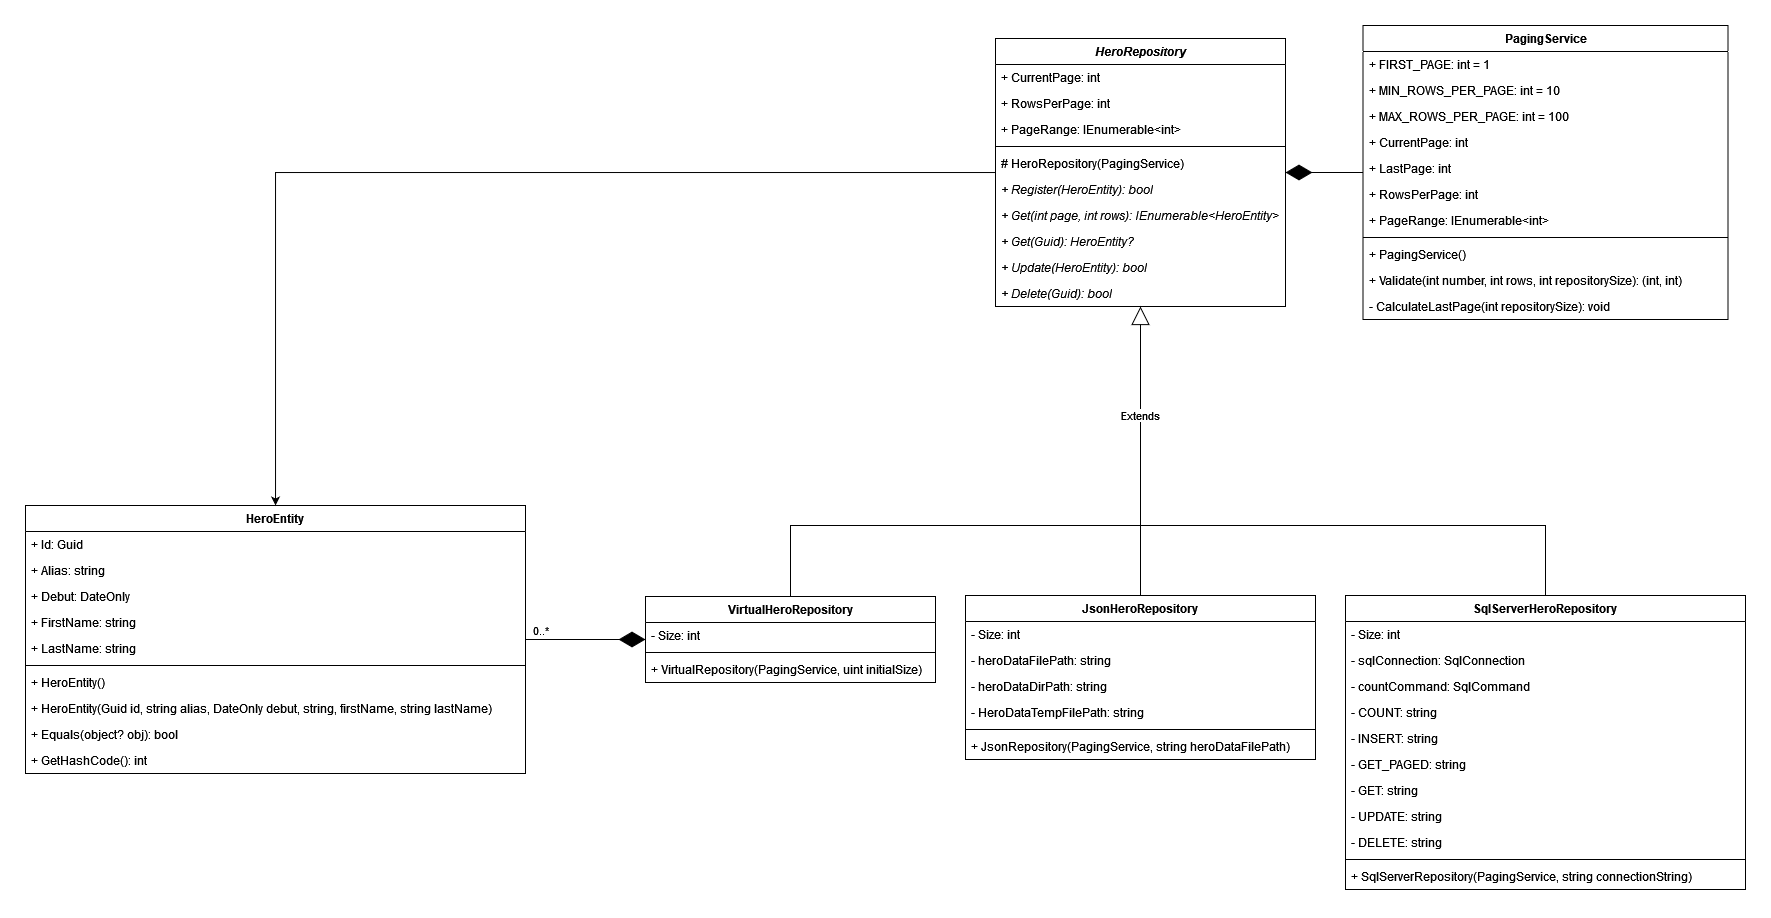
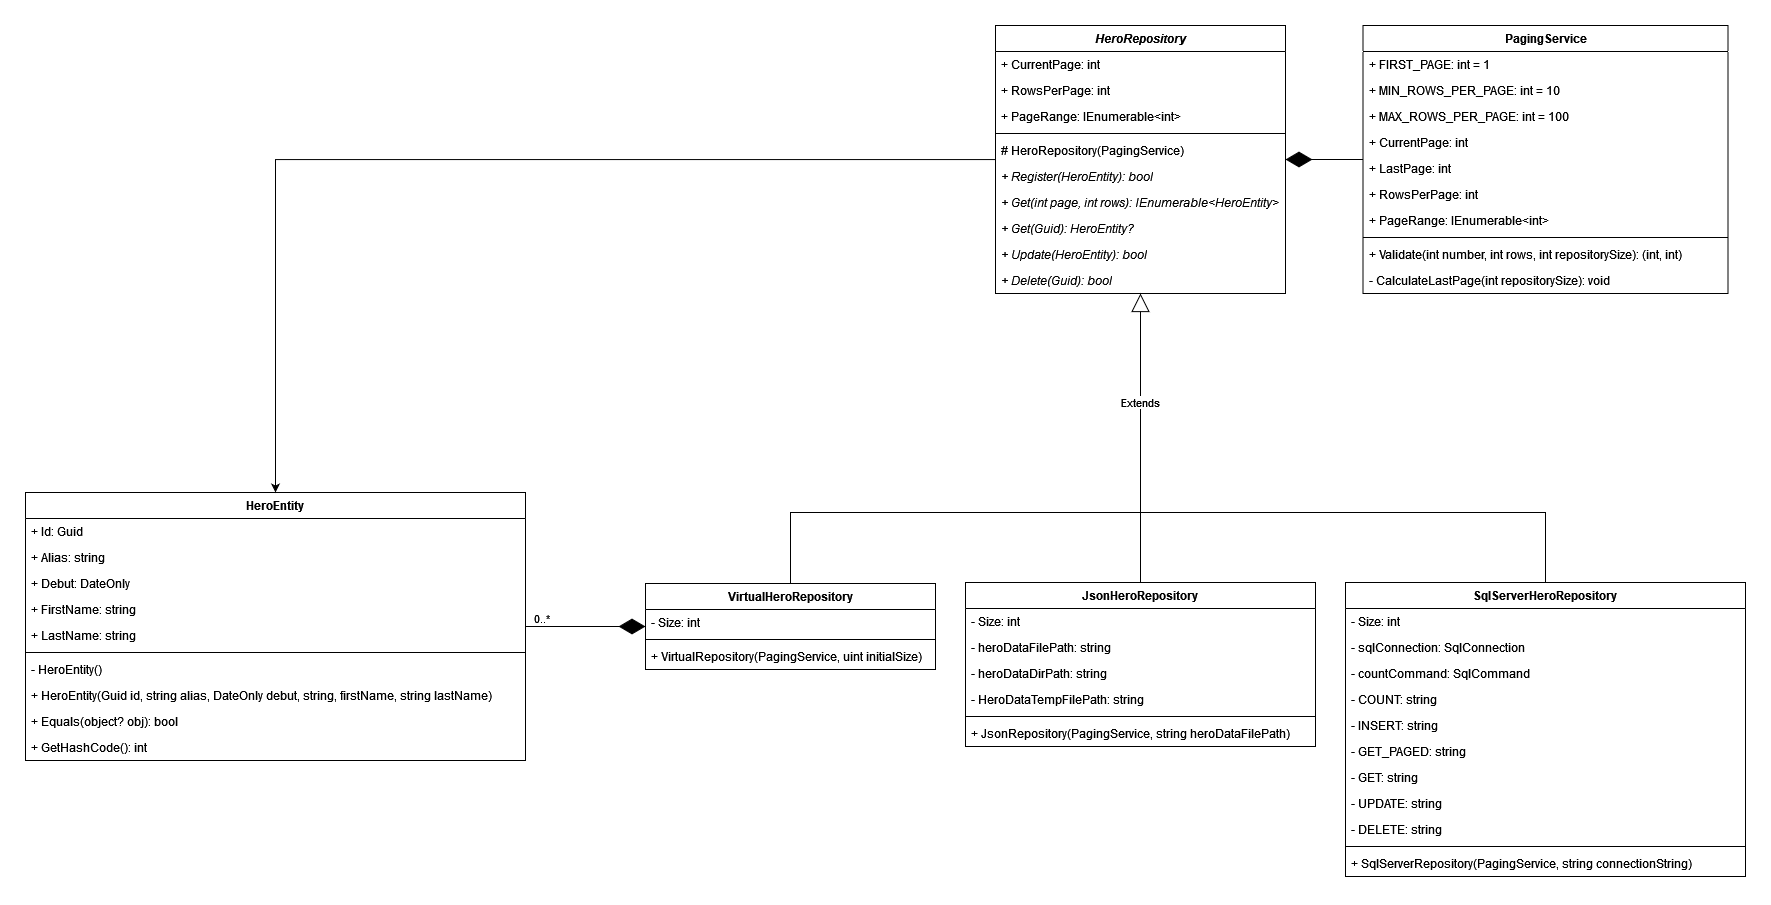
Simplique a atualização de heróis

diff --git a/src/CrudDaJustica.WebApi/Controllers/HeroController.cs b/src/CrudDaJustica.WebApi/Controllers/HeroController.cs
@@ -92,12 +92,11 @@ public class HeroController : ControllerBase
         Guid newHeroId = Guid.NewGuid();
         if (success = ModelState.IsValid)
         {
-            var newHero = new HeroEntity(
-                newHeroId,
-                request.Alias,
-                request.Debut,
-                request.FirstName,
-                request.LastName);
+            var newHero = new HeroEntity(newHeroId,
+                                         request.Alias,
+                                         request.Debut,
+                                         request.FirstName,
+                                         request.LastName);
 
             success = heroRepository.Register(newHero);
         }
@@ -136,13 +135,12 @@ public class HeroController : ControllerBase
             return BadRequest();
         }
 
-        var updatedInformation = new HeroEntity(
-            id,
-            request.Alias,
-            request.Debut,
-            request.FirstName,
-            request.LastName);
-        var success = heroRepository.Update(id, updatedInformation);
+        var updatedInformation = new HeroEntity(id,
+                                                request.Alias,
+                                                request.Debut,
+                                                request.FirstName,
+                                                request.LastName);
+        var success = heroRepository.Update(updatedInformation);
 
         if (success)
         {

diff --git a/src/CrudDaJustica.Data.Lib/Repositories/VirtualHeroRepository.cs b/src/CrudDaJustica.Data.Lib/Repositories/VirtualHeroRepository.cs
@@ -62,22 +62,19 @@ public class VirtualHeroRepository : HeroRepository
         return null;
     }
 
-    public override bool Update(Guid id, HeroEntity updatedHero)
+    public override bool Update(HeroEntity updatedHero)
     {
         var index = 0;
 
         foreach (var hero in heroes[..])
         {
-            if (hero.Id == id)
+            if (hero.Id == updatedHero.Id)
             {
-                heroes[index] = new HeroEntity()
-                {
-                    Id = id,
-                    Alias = updatedHero.Alias,
-                    Debut = updatedHero.Debut,
-                    FirstName = updatedHero.FirstName,
-                    LastName = updatedHero.LastName,
-                };
+                heroes[index] = new HeroEntity(updatedHero.Id,
+                                               updatedHero.Alias,
+                                               updatedHero.Debut,
+                                               updatedHero.FirstName,
+                                               updatedHero.LastName);
                 return true;
             }
             index++;

diff --git a/src/CrudDaJustica.Data.Lib/Models/HeroEntity.cs b/src/CrudDaJustica.Data.Lib/Models/HeroEntity.cs
@@ -14,7 +14,7 @@ public class HeroEntity
     /// <summary>
     /// The name of a hero's secret identity.
     /// </summary>
-    public string Alias { get; set; } = null!;
+    public string Alias { get; set; }
 
     /// <summary>
     /// The date when a hero was first seen.
@@ -24,17 +24,14 @@ public class HeroEntity
     /// <summary>
     /// The first name of the person behind the secret identity.
     /// </summary>
-    public string FirstName { get; set; } = null!;
+    public string FirstName { get; set; }
 
     /// <summary>
     /// The last name of the person behind the secret identity.
     /// </summary>
-    public string LastName { get; set; } = null!;
+    public string LastName { get; set; }
 
-    /// <summary>
-    /// Initializes a new instance of the <see cref="HeroEntity"/> class.
-    /// </summary>
-    public HeroEntity() { }
+    private HeroEntity() { }
 
     /// <summary>
     /// Initializes a new instance of the <see cref="HeroEntity"/> class.

diff --git a/src/CrudDaJustica.Data.Lib/Repositories/SqlServerHeroRepository.cs b/src/CrudDaJustica.Data.Lib/Repositories/SqlServerHeroRepository.cs
@@ -145,15 +145,15 @@ public class SqlServerHeroRepository : HeroRepository
         var firstName = sqlReader.GetString(3);
         var lastName = sqlReader.GetString(4);
 
-        return new HeroEntity { Id = idFromQuery, Alias = alias, Debut = debut, FirstName = firstName, LastName = lastName };
+        return new HeroEntity(idFromQuery, alias, debut, firstName, lastName);
     }
 
-    public override bool Update(Guid id, HeroEntity updatedHero)
+    public override bool Update(HeroEntity updatedHero)
     {
         var updateHeroCommand = new SqlCommand(UPDATE, sqlConnection);
         updateHeroCommand.Parameters.AddRange(new SqlParameter[]
         {
-            new("id", id),
+            new("id", updatedHero.Id),
             new("alias", updatedHero.Alias),
             new("debut", updatedHero.Debut),
             new("firstName", updatedHero.FirstName),

diff --git a/src/CrudDaJustica.Cli.App/Controllers/HeroController.cs b/src/CrudDaJustica.Cli.App/Controllers/HeroController.cs
@@ -1,4 +1,5 @@
 using CrudDaJustica.Cli.App.Models;
+using CrudDaJustica.Data.Lib.Models;
 using CrudDaJustica.Data.Lib.Repositories;
 using System.Globalization;
 
@@ -110,12 +111,11 @@ public class HeroController
             CultureInfo.InvariantCulture.DateTimeFormat.ShortDatePattern,
             CultureInfo.InvariantCulture);
 
-        heroRepository.Update(id,
-            new(id,
-            heroFormModel.Alias!,
-            validDate,
-            heroFormModel.FirstName!,
-            heroFormModel.LastName!));
+        heroRepository.Update(new HeroEntity(id,
+                                             heroFormModel.Alias!,
+                                             validDate,
+                                             heroFormModel.FirstName!,
+                                             heroFormModel.LastName!));
     }
 
     /// <summary>

diff --git a/src/CrudDaJustica.Data.Lib/Repositories/HeroRepository.cs b/src/CrudDaJustica.Data.Lib/Repositories/HeroRepository.cs
@@ -54,9 +54,8 @@ public abstract class HeroRepository
     /// <summary>
     /// Updates the information about a registered hero.
     /// </summary>
-    /// <param name="id"> The id of the hero to update. </param>
     /// <param name="updatedHero"> A <see cref="HeroEntity"/> containing update to date information about the hero. </param>
-    public abstract bool Update(Guid id, HeroEntity updatedHero);
+    public abstract bool Update(HeroEntity updatedHero);
 
     /// <summary>
     /// Deletes a hero from the repository.

diff --git a/src/CrudDaJustica.Data.Lib/Repositories/JsonHeroRepository.cs b/src/CrudDaJustica.Data.Lib/Repositories/JsonHeroRepository.cs
@@ -85,7 +85,7 @@ public class JsonHeroRepository : HeroRepository
                                                 .Select(line => JsonSerializer.Deserialize<HeroEntity>(line))
                                                 .FirstOrDefault(he => he?.Id == id, null);
 
-    public override bool Update(Guid id, HeroEntity updatedHero) => OverwriteData(id, updatedHero);
+    public override bool Update(HeroEntity updatedHero) => OverwriteData(updatedHero.Id, updatedHero);
 
     public override bool Delete(Guid id)
     {
